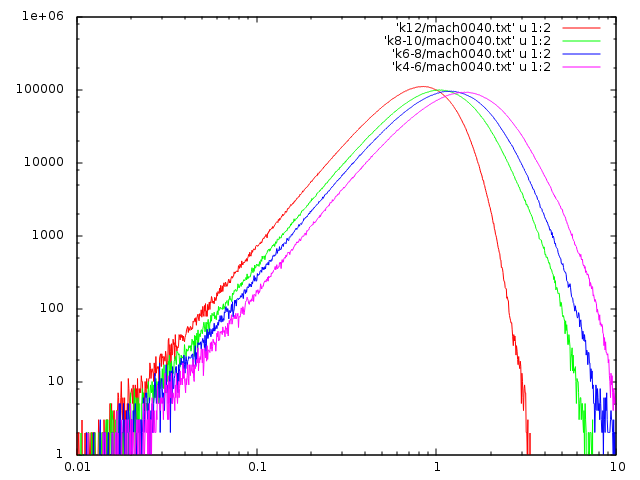
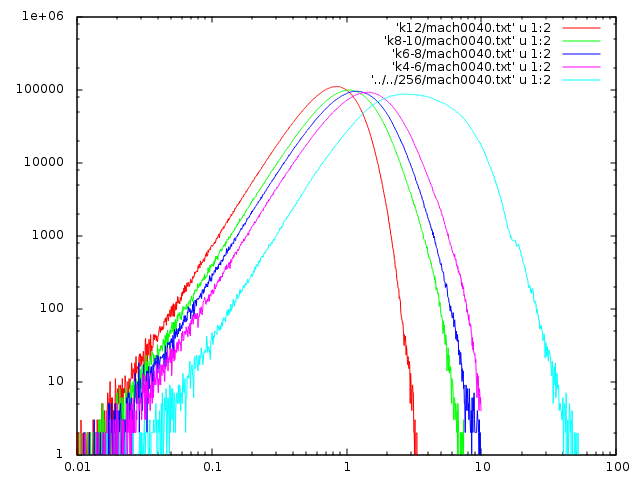
Modified a mach_no. plot

diff --git a/multi_phase_gas/params.h b/multi_phase_gas/params.h
@@ -4,7 +4,7 @@
 #define nv 2
 #define prefix "data."
 #define suffix ".dbl"
-#define datdir "/mnt/lustre/ug4/ugrajs/cooling/higher_k/256/k12/"
+#define datdir "/mnt/lustre/ug4/ugrajs/cooling/256/"
 #define f1 40
 #define f2 50
 #define verbose 0
@@ -21,7 +21,7 @@
 #define TEMP_max      1e8      /**<  Maximum temperature that we consider in our distribution        */
 #define TEMP_min      1e4      /**<  Minimum temperature that we consider in our distribution        */
 #define gamma         5./3.    //Value of gamma
-#define MACH_max      10.      /**<  Maximum mach no. that we consider in our distribution        */
+#define MACH_max      1e2      /**<  Maximum mach no. that we consider in our distribution        */
 #define MACH_min      1e-2     /**<  Minimum mach no. that we consider in our distribution        */
 
 
